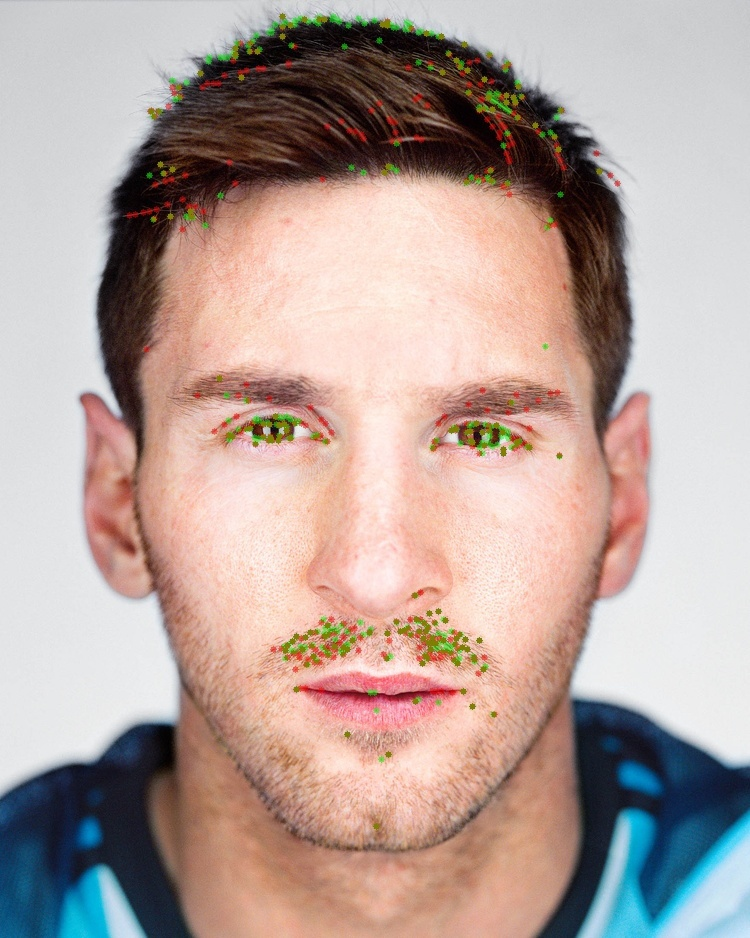
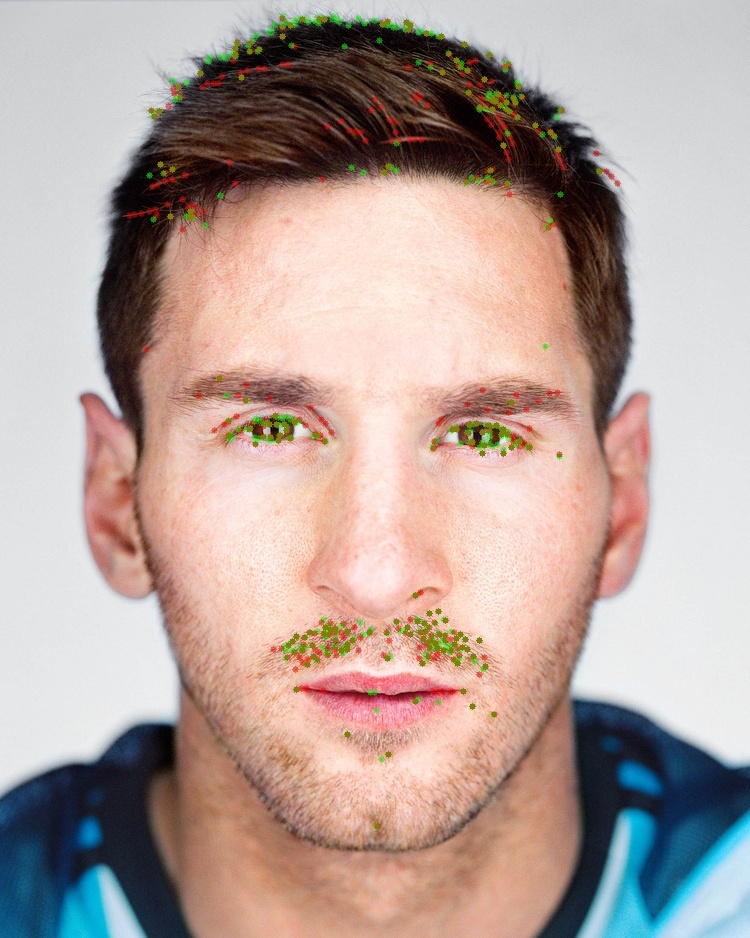
Add files via upload

diff --git a/src/my_corners.cpp b/src/my_corners.cpp
@@ -56,10 +56,10 @@ vector<KeyPoint> ShiTomasiCorners(const Mat& sourceImage, double qualityRatio, i
     cvtColor(sourceImage, grayImg, COLOR_BGR2GRAY);
     grayImg.convertTo(grayImg, CV_64F);
 
-    // 2. Gradienti
+    // 2. Calcolo Gradienti Ix e Iy
     auto [gradX, gradY] = computeDerivatives(grayImg);
 
-    // 3. Mappa dei punteggi (autovalore min)
+    // 3. Matrice dei punteggi (autovalore min di H per ciascun pixel)
     Mat scoreMap = Mat::zeros(grayImg.size(), CV_64F);
     double peakResponse = 0;
     int halfPatch = patchSize / 2;
@@ -68,7 +68,7 @@ vector<KeyPoint> ShiTomasiCorners(const Mat& sourceImage, double qualityRatio, i
         for (int col = halfPatch; col < grayImg.cols - halfPatch; col++) {
             double a = 0, b = 0, c = 0;
 
-            // Somma manuale su finestra patchSize x patchSize
+            // Per ciascun pixel genera la matrice H relativa
             for (int dy = -halfPatch; dy <= halfPatch; ++dy) {
                 for (int dx = -halfPatch; dx <= halfPatch; ++dx) {
                     int yk = row + dy;
@@ -80,17 +80,17 @@ vector<KeyPoint> ShiTomasiCorners(const Mat& sourceImage, double qualityRatio, i
                     c += iy * iy;
                 }
             }
-
+            // Estrae il min autovalore
             double lambdaMin = smallestEigenvalue(a, b, c);
             scoreMap.at<double>(row, col) = lambdaMin;
             if (lambdaMin > peakResponse) peakResponse = lambdaMin;
         }
     }
 
-    // 4. Soglia basata su qualità
+    // 4. Soglia basata su qualità (se un pixel è massimo locale ma sotto soglia viene scartato)
     double threshold = qualityRatio * peakResponse;
 
-    // 5. Non-maximum suppression
+    // 5. Non-maximum suppression sulla score map
     Mat suppressed = nonMaximumSuppression(scoreMap, patchSize);
 
     // 6. Estrazione dei keypoint
@@ -104,7 +104,7 @@ vector<KeyPoint> ShiTomasiCorners(const Mat& sourceImage, double qualityRatio, i
         }
     }
 
-    // 7. Se troppi keypoint, tieni solo i migliori
+    // 7. Se troppi keypoint, tieni solo i migliori (opzionale nel mio caso non influisce)
     if (keypoints.size() > maxPoints) {
         sort(keypoints.begin(), keypoints.end(), [](const KeyPoint& a, const KeyPoint& b) {
             return a.response > b.response;
@@ -118,7 +118,7 @@ vector<KeyPoint> ShiTomasiCorners(const Mat& sourceImage, double qualityRatio, i
 
 // FUNZIONI FAST
 
-// Definisco una circonferenza di raggio 3
+// Definisco una circonferenza di raggio 3 (16 pixel)
 vector<Point> circonferenza = {
     {0, -3}, {1, -3}, {2, -2}, {3, -1}, {3, 0}, {3, 1}, {2, 2}, {1, 3},
     {0, 3}, {-1, 3}, {-2, 2}, {-3, 1}, {-3, 0}, {-3, -1}, {-2, -2}, {-1, -3}
@@ -147,8 +147,8 @@ bool fastSegmentTest(const Mat &img, int x, int y, int threshold, int n) {
 // Test "preliminare" confronto con solo 4 pixel chiave (più rapido per questo prende il nome di highspeed)
 bool fastHighSpeedTest(const Mat &img, int x, int y, int threshold) {
     uchar pixel = img.at<uchar>(y, x);
-    vector<int> test_pixel = {1, 9, 5, 13};
-    int countHigh = 0, countLow = 0;
+    vector<int> test_pixel = {1, 9, 5, 13};   // 4 pixel chiave p1 p5 p9 p13
+    int countHigh = 0, countLow = 0;          // quanti più chiari e quanti più scuri
     for (int i = 0; i < test_pixel.size(); i++) {
         int j = test_pixel[i];
         int dx = x + (circonferenza[j].x);
@@ -162,49 +162,35 @@ bool fastHighSpeedTest(const Mat &img, int x, int y, int threshold) {
             countLow++;
         }
     }
-    return (countHigh >= 3 || countLow >= 3);
+    return (countHigh >= 3 || countLow >= 3);  // test impostato su almeno 3 più chiari o 3 più scuri
 }
 
 
 // Non maximum suppression
-void nonMaximumSuppression(vector<KeyPoint> &keypoints, const Mat &img, int dist) {
-    vector<float> V_keypoints(keypoints.size());
-    for (int i = 0; i < keypoints.size(); i++) {
-        KeyPoint kp = keypoints[i];
-        int x = kp.pt.x;
-        int y = kp.pt.y;
-        int sum = 0;
-        uchar pixel = img.at<uchar>(y, x);
-        for (const auto& pt : circonferenza) {
-            int dx = x + pt.x;
-            int dy = y + pt.y;
-            if (dx >= 0 && dx < img.cols && dy >= 0 && dy < img.rows) {
-                uchar nearest = img.at<uchar>(dy, dx);
-                sum += abs(pixel - nearest);
+void nonMaximumSuppression(vector<KeyPoint>& keypoints, int minDist) {
+    // Ordina per risposta decrescente
+    sort(keypoints.begin(), keypoints.end(), [](const KeyPoint& a, const KeyPoint& b) {
+        return a.response > b.response;
+    });
+
+    vector<KeyPoint> finalKeypoints;
+    
+    for (const auto& kp : keypoints) {
+        bool keep = true;
+        for (const auto& selected : finalKeypoints) {
+            if (norm(kp.pt - selected.pt) < minDist) {
+                keep = false;
+                break;
             }
         }
-        V_keypoints[i] = sum;
-    }
-    for (int i = 0; i < keypoints.size(); i++) {
-        KeyPoint kp = keypoints[i];
-        int x = kp.pt.x;
-        int y = kp.pt.y;
-        for (int j = 0; j < keypoints.size(); j++) {
-            if (i != j) {
-                KeyPoint kp2 = keypoints[j];
-                int x2 = kp2.pt.x;
-                int y2 = kp2.pt.y;
-                if (abs(x - x2) <= dist && abs(y - y2) <= dist) {
-                    if (V_keypoints[i] < V_keypoints[j]) {
-                        keypoints.erase(keypoints.begin() + i);
-                        i--;
-                        break;
-                    }
-                }
-            }
+        if (keep) {
+            finalKeypoints.push_back(kp);
         }
     }
+
+    keypoints = finalKeypoints;
 }
+
 
 
 vector<KeyPoint> FASTCorners(const Mat& sourceImage, int threshold, bool nonMaxSuppression) {
@@ -213,13 +199,13 @@ vector<KeyPoint> FASTCorners(const Mat& sourceImage, int threshold, bool nonMaxS
     vector<KeyPoint> keypoints;
     for (int y = 3; y < grayImg.rows - 3; y++) {
         for (int x = 3; x < grayImg.cols - 3; x++) {
-            if (fastHighSpeedTest(grayImg, x, y, threshold) && fastSegmentTest(grayImg, x, y, threshold)) {
+            if (fastHighSpeedTest(grayImg, x, y, threshold) && fastSegmentTest(grayImg, x, y, threshold)) { // Solo se passa il primo test preliminare si passa al secondo
                 keypoints.push_back(KeyPoint(x, y, 1));
             }
         }
     }
     if (nonMaxSuppression) {
-        nonMaximumSuppression(keypoints, grayImg);
+        nonMaximumSuppression(keypoints, 5);
     }
     return keypoints;
 }
